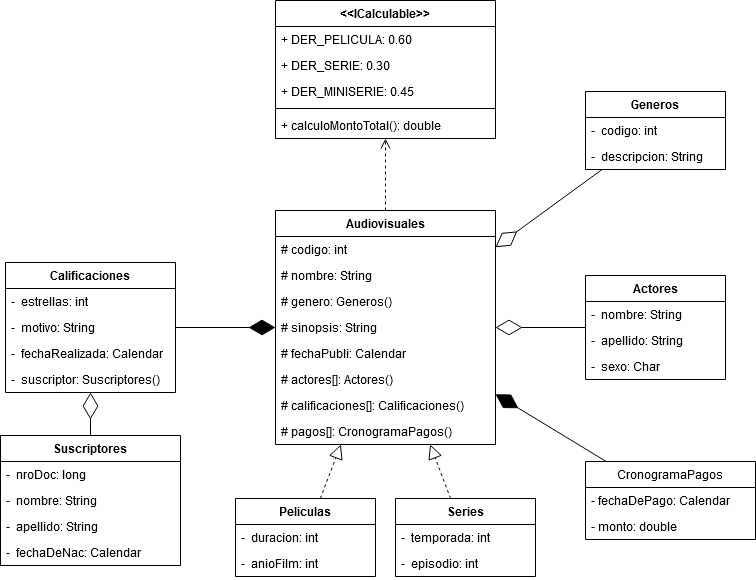
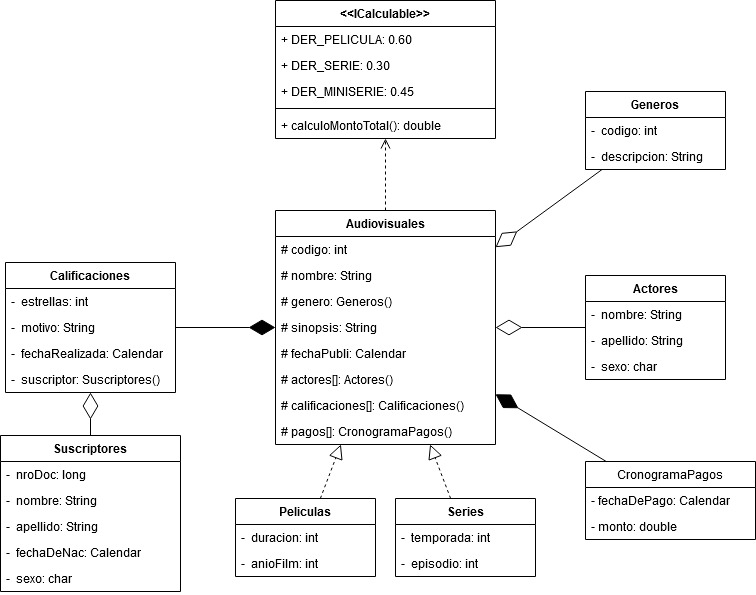
Initial Commit: Basic Structure

diff --git a/src/model/DAO/SuscriptoresTXT.java b/src/model/DAO/SuscriptoresTXT.java
@@ -1,0 +1,70 @@
+package model.DAO;
+
+import model.Suscriptores;
+
+import java.io.File;
+import java.io.IOException;
+import java.util.ArrayList;
+import java.util.Calendar;
+import java.util.Scanner;
+import java.util.TreeSet;
+
+public class SuscriptoresTXT {
+
+//    private static final String directorio = "D:\\\\IdeaProjects\\\\Java\\\\Guia-08\\\\src\\\\resources\\";
+    private static final String directorio = "C:\\\\Users\\\\Flor\\\\git\\\\Guia-08\\\\src\\\\resources\\";
+
+    public TreeSet<Suscriptores> bajarGeneros() {
+
+        File archivo = new File ( directorio + "Suscriptores.txt");
+        TreeSet<Suscriptores> suscriptores = new TreeSet<Suscriptores>();
+
+        try {
+            if (archivo.exists()){
+                Scanner leerArchivoSuscriptores = new Scanner(archivo);
+                ArrayList<String> suscriptoresST = new ArrayList<String>();
+
+                //Guardar contenido en String
+                while (leerArchivoSuscriptores.hasNext()) {
+                    String lineaActual = leerArchivoSuscriptores.nextLine();
+                    suscriptoresST.add(lineaActual);
+                }
+
+                // Guardar objetos
+                for (String s : suscriptoresST) {
+
+                    int codigo              = Integer.parseInt(s.substring(0,10).trim());            // codigo
+                    String nombre           = s.substring(10,22).trim();                             // nombre
+                    String apellido         = s.substring(22,39).trim();                             // apellido
+                    long nroDoc             = Long.parseLong(s.substring(39,50).trim());             // nroDoc
+                    Calendar fechaDeNac     = convertirAFechaCalendar(s.substring(50,63).trim());    // fechaDeNac
+                    char sexo               = s.substring(63,65).trim().charAt(0);                   // sexo
+
+                    suscriptores.add(new Suscriptores( nroDoc, nombre, apellido, fechaDeNac, sexo));
+                }
+
+                leerArchivoSuscriptores.close();
+            }
+
+        } catch (IOException e) {
+            e.printStackTrace();
+        }
+        return suscriptores;
+    }
+
+    public Calendar convertirAFechaCalendar(String f) {
+        Calendar fecha = Calendar.getInstance();
+
+        //dd/mm/aaaa
+        String[] aux = f.split("/");
+        int day = Integer.parseInt(aux[0]);
+        int month = Integer.parseInt(aux[1]);
+        int year = Integer.parseInt(aux[2]);
+
+        fecha.set(Calendar.DAY_OF_MONTH, day);
+        fecha.set(Calendar.MONTH, (month - 1));
+        fecha.set(Calendar.YEAR, year);
+
+        return fecha;
+    }
+}

diff --git a/src/model/DAO/GenerosTXT.java b/src/model/DAO/GenerosTXT.java
@@ -1,0 +1,48 @@
+package model.DAO;
+
+import model.Generos;
+
+import java.io.File;
+import java.io.IOException;
+import java.util.ArrayList;
+import java.util.Scanner;
+
+public class GenerosTXT {
+    
+//    private static final String directorio = "D:\\\\IdeaProjects\\\\Java\\\\Guia-08\\\\src\\\\resources\\";
+    private static final String directorio = "C:\\\\Users\\\\Flor\\\\git\\\\Guia-08\\\\src\\\\resources\\";
+
+    public ArrayList<Generos> bajarGeneros() {
+
+        File archivo = new File ( directorio + "Generos.txt");
+        ArrayList<Generos> generos = new ArrayList<Generos>();
+
+        try {
+            if (archivo.exists()){
+                Scanner leerArchivoGeneros = new Scanner(archivo);
+                ArrayList<String> generosST = new ArrayList<String>();
+
+                //Guardar contenido en String
+                while (leerArchivoGeneros.hasNext()) {
+                    String lineaActual = leerArchivoGeneros.nextLine();
+                    generosST.add(lineaActual);
+                }
+
+                // Guardar objetos
+                for (String s : generosST) {
+
+                    int codigo              = Integer.parseInt(s.substring(0,8).trim());              // codigo
+                    String descripcion      = s.substring(8,24).trim();                               // descripcion
+
+                    generos.add(new Generos(codigo, descripcion));
+                }
+
+                leerArchivoGeneros.close();
+            }
+
+        } catch (IOException e) {
+            e.printStackTrace();
+        }
+        return generos;
+    }
+}

diff --git a/src/model/Suscriptores.java b/src/model/Suscriptores.java
@@ -2,20 +2,22 @@ package model;
 
 import java.util.Calendar;
 
-public class Suscriptores {
+public class Suscriptores implements Comparable<Suscriptores>{
     private long nroDoc;
     private String nombre;
     private String apellido;
     private Calendar fechaDeNac;
+    private char sexo;
 
     public Suscriptores() {
     }
 
-    public Suscriptores(long nroDoc, String nombre, String apellido, Calendar fechaDeNac) {
+    public Suscriptores(long nroDoc, String nombre, String apellido, Calendar fechaDeNac, char sexo) {
         this.nroDoc = nroDoc;
         this.nombre = nombre;
         this.apellido = apellido;
         this.fechaDeNac = fechaDeNac;
+        this.sexo = sexo;
     }
 
     public long getNroDoc() {
@@ -48,5 +50,18 @@ public class Suscriptores {
 
     public void setFechaDeNac(Calendar fechaDeNac) {
         this.fechaDeNac = fechaDeNac;
+    }
+
+    public char getSexo() {
+        return sexo;
+    }
+
+    public void setSexo(char sexo) {
+        this.sexo = sexo;
+    }
+
+    @Override
+    public int compareTo(Suscriptores p) {
+        return apellido.compareTo(p.apellido);      // orden natural: apellido
     }
 }

diff --git a/src/model/DAO/ActoresTXT.java b/src/model/DAO/ActoresTXT.java
@@ -11,7 +11,7 @@ public class ActoresTXT {
 
     public TreeSet<Actores> bajarActores() {
 
-        File archivo = new File ( directorio + "resources/AudiovisualesActores.txt");
+        File archivo = new File ( directorio + "AudiovisualesActores.txt");
         TreeSet<Actores> actores = new TreeSet<Actores>();
 
         try {
